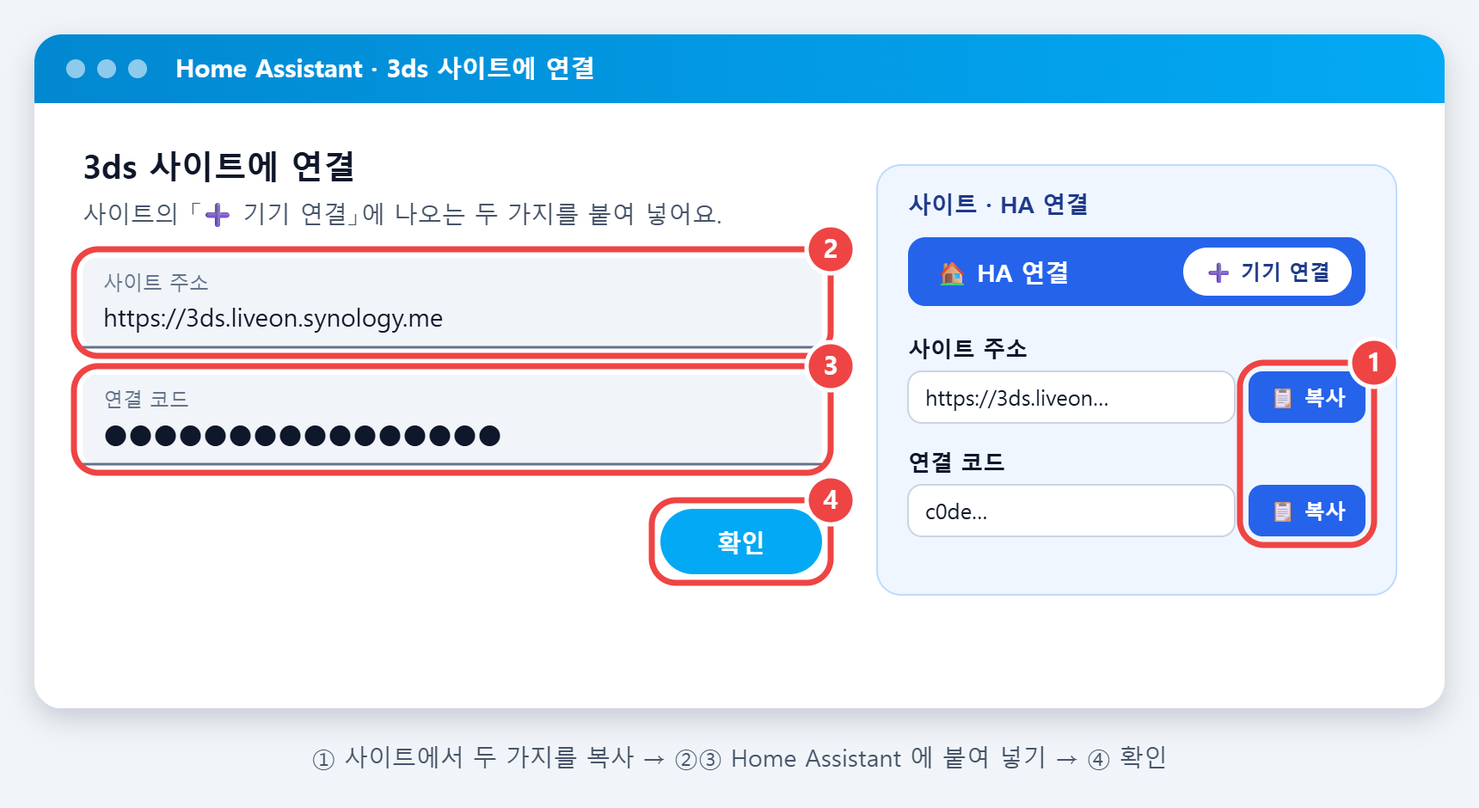
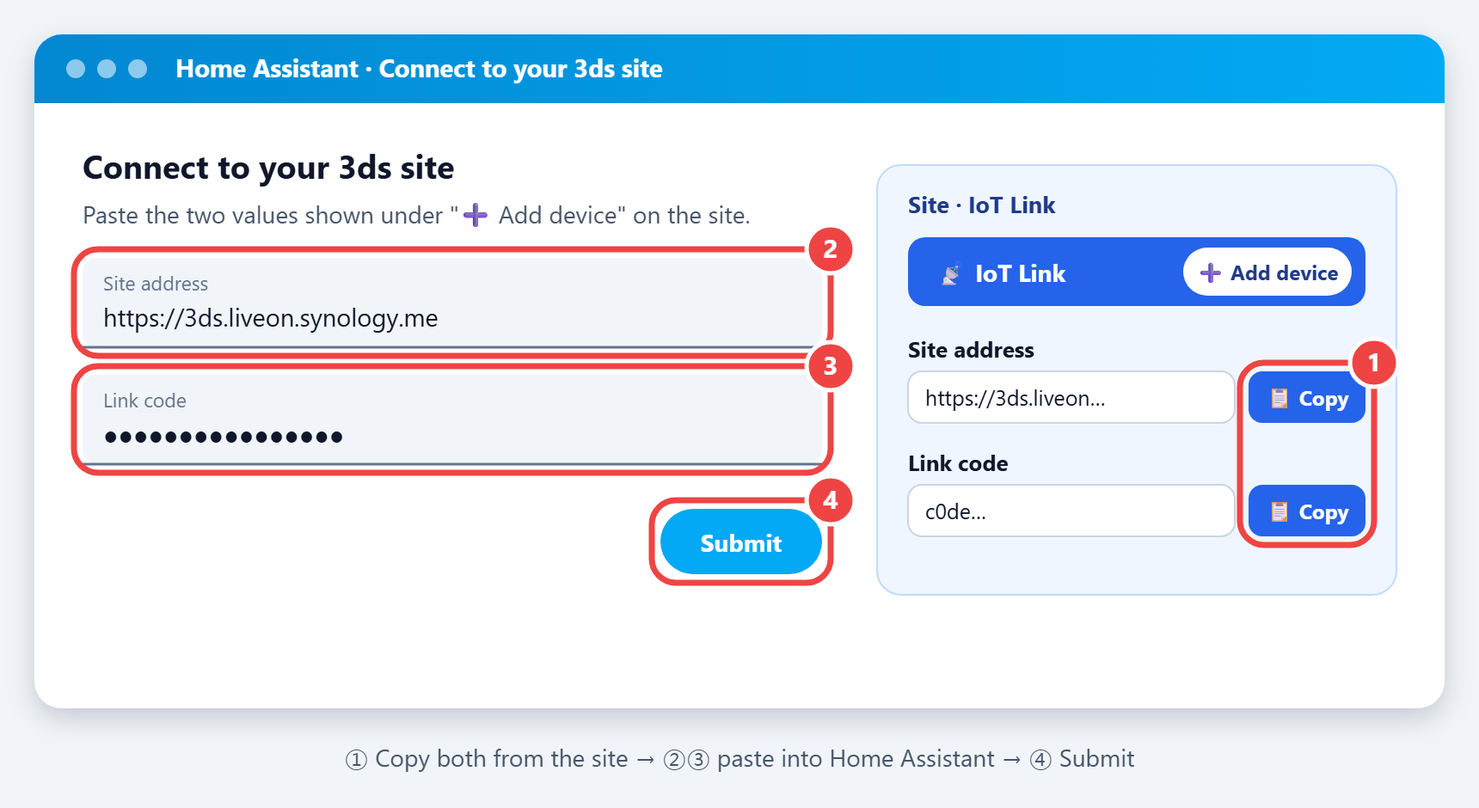
0.3.3 Documentation in English + requirements section (IoT Link plugin)

diff --git a/custom_components/g7_link/config_flow.py b/custom_components/g7_link/config_flow.py
@@ -255,7 +255,7 @@ def _scan(hass: HomeAssistant, hub: dict[str, Any]) -> dict[str, dict[str, Any]]
         loc = next((x for x in locations if _norm(x) in text or (len(_norm(name)) >= 2 and _norm(name) in _norm(x))), None)
         place = loc or name
         out[f"h:{ent}"] = {
-            "label": f"🧵 {loc}  ←  {friendly}" if loc else f"🧵 {friendly} (새 보관함: {name})",
+            "label": f"🧵 {loc}  ←  {friendly}" if loc else f"🧵 {friendly} (new storage box: {name})",
             "matched": loc is not None,
             "name": place,
             "body": {CONF_TARGET: "location", CONF_LOCATION: place, CONF_NAME: place, CONF_HUM: ent, CONF_TEMP: temp, CONF_HUMIDITY_MAX: 40},
@@ -432,8 +432,8 @@ class G7LinkConfigFlow(config_entries.ConfigFlow, domain=DOMAIN):
             {
                 vol.Required(CONF_TARGET, default=CONF_AUTO): selector.SelectSelector(
                     selector.SelectSelectorConfig(
-                        options=[selector.SelectOptionDict(value=CONF_AUTO, label="⚡ 알아서 찾아 연결 (추천) — 내 프린터 · 필라멘트 보관함과 이름이 맞는 것")]
-                        + [selector.SelectOptionDict(value=k, label=str(v) + " — 하나씩") for k, v in targets.items()],
+                        options=[selector.SelectOptionDict(value=CONF_AUTO, label="⚡ Find and connect automatically (recommended) — matches My Printer and filament storage by name")]
+                        + [selector.SelectOptionDict(value=k, label=str(v) + " — one at a time") for k, v in targets.items()],
                         mode=selector.SelectSelectorMode.LIST,
                     )
                 )
@@ -484,7 +484,7 @@ class G7LinkConfigFlow(config_entries.ConfigFlow, domain=DOMAIN):
                     "snap_max": self._hub.get("snap_max"),
                     "snapshot": bool(self._hub.get("snapshot", True)),
                 }
-                return self.async_create_entry(title=f"3ds 기기 {len(devices)}개", data=data, options={})
+                return self.async_create_entry(title=f"3ds — {len(devices)} devices", data=data, options={})
             errors.setdefault("base", "need_entity")
         schema = _items_schema({k: c["label"] for k, c in self._cands.items()}, [k for k, c in self._cands.items() if c["matched"]])
         return self.async_show_form(step_id="auto", data_schema=schema, errors=errors, description_placeholders=placeholders)
@@ -529,7 +529,7 @@ class G7LinkConfigFlow(config_entries.ConfigFlow, domain=DOMAIN):
                     "gap_sec": self._hub.get("gap_sec"),
                     "snapshot": False,
                 }
-                return self.async_create_entry(title=f"3ds 보관함 센서 {len(devices)}개", data=data, options={})
+                return self.async_create_entry(title=f"3ds — {len(devices)} storage sensors", data=data, options={})
             errors["base"] = last or "need_entity"
         return self.async_show_form(step_id="bulk", data_schema=_bulk_schema(), errors=errors, description_placeholders=placeholders)
 
@@ -678,7 +678,7 @@ class G7LinkOptionsFlow(config_entries.OptionsFlow):
                     if key not in picked:
                         await _delete(self.hass, site, code, int(gone.get(CONF_DEVICE_ID) or 0))
                 data[CONF_DEVICES] = keep
-                self.hass.config_entries.async_update_entry(entry, data=data, title=f"3ds 기기 {len(keep)}개")
+                self.hass.config_entries.async_update_entry(entry, data=data, title=f"3ds — {len(keep)} devices")
                 return self.async_create_entry(title="", data=dict(entry.options))
         options = {k: f"✔ {d.get(CONF_NAME) or k}" for k, d in current.items()}
         options.update({k: c["label"] for k, c in self._cands.items()})
@@ -754,7 +754,7 @@ class G7LinkOptionsFlow(config_entries.OptionsFlow):
                     if gone.get(CONF_HUM) not in picked:
                         await _delete(self.hass, site, code, int(gone.get(CONF_DEVICE_ID) or 0))
                 data[CONF_DEVICES] = keep
-                self.hass.config_entries.async_update_entry(entry, data=data, title=f"3ds 보관함 센서 {len(keep)}개")
+                self.hass.config_entries.async_update_entry(entry, data=data, title=f"3ds — {len(keep)} storage sensors")
                 return self.async_create_entry(title="", data=dict(entry.options))
         current = [d.get(CONF_HUM) for d in devices if d.get(CONF_HUM)]
         return self.async_show_form(step_id="bulk", data_schema=_bulk_schema(current), errors=errors, description_placeholders=placeholders)

diff --git a/custom_components/g7_link/__init__.py b/custom_components/g7_link/__init__.py
@@ -94,7 +94,7 @@ async def async_remove_entry(hass: HomeAssistant, entry: ConfigEntry) -> None:
             resp = await hub_request(async_get_clientsession(hass), "DELETE", data.get(CONF_SITE, ""), f"{data.get(CONF_CODE, '')}/devices/{device_id or 0}", timeout=_TIMEOUT)
             resp.release()
         except _NET_ERRORS as err:
-            _LOGGER.debug("3ds: 사이트의 기기를 지우지 못함: %s", err)
+            _LOGGER.debug("3ds: could not remove the device on the site: %s", err)
 
 
 def _int(value: Any, default: int) -> int:
@@ -278,7 +278,7 @@ class Pusher:
         try:
             resp = await async_get_clientsession(self.hass).post(self.push_url, json=payload, timeout=_TIMEOUT)
             if resp.status >= 400:
-                _LOGGER.debug("3ds %s: 사이트가 받지 않음 (%s)", self.title, resp.status)
+                _LOGGER.debug("3ds %s: the site did not accept the values (%s)", self.title, resp.status)
                 resp.release()
                 return
             try:
@@ -288,7 +288,7 @@ class Pusher:
             if isinstance(answer, dict):
                 self._apply_site(answer)
         except _NET_ERRORS as err:
-            _LOGGER.debug("3ds %s: 보내지 못함: %s", self.title, err)
+            _LOGGER.debug("3ds %s: could not send: %s", self.title, err)
 
     # ── 카메라 사진 (없어도 되는 것 — 무엇이 잘못돼도 값 보내기에는 영향 없음) ──
 
@@ -316,7 +316,7 @@ class Pusher:
                 self._last_snap = time.monotonic()
             resp.release()
         except Exception as err:  # noqa: BLE001 — 카메라 종류 · 버전마다 내는 오류가 달라 넓게 잡음
-            _LOGGER.debug("3ds %s: 사진을 보내지 못함: %s", self.title, err)
+            _LOGGER.debug("3ds %s: could not send the camera snapshot: %s", self.title, err)
 
     async def _camera_image(self, camera_entity: str) -> bytes | None:
         # 카메라 통합이 없는 집에서도 켜지게 여기서 불러옴

diff --git a/README.md b/README.md
@@ -1,123 +1,144 @@
 <img src="custom_components/g7_link/brand/icon.png" alt="3ds" width="96" align="right">
 
-# 3ds — Home Assistant 통합
+# 3ds — Home Assistant integration
 
-Home Assistant 의 온습도 센서 · 프린터/장비 상태 · 카메라 사진을 G7(그누보드7) 사이트의 **📡 IoT 연결** 플러그인(`custom-iot_link`, 예전 이름 HA 연결 `custom-ha_link` 도 됨)으로 보냅니다.
-설정 글(YAML)을 쓰지 않고, 화면에서 센서를 고르기만 하면 됩니다.
+Sends Home Assistant temperature / humidity sensors, printer / device state and camera snapshots to a **G7 (Gnuboard 7)** site running the **📡 IoT Link** plugin.
+No YAML — you just pick sensors in the UI.
 
-- 사이트가 내 Home Assistant 로 접속하지 않습니다. 여기서 사이트로 **보내기만** 합니다.
-- 사이트의 화면을 한동안 안 보면 사이트가 알려 주는 느린 주기로 스스로 늦춥니다 (상태 변화는 그대로 바로 보냄). 다시 화면을 열면 다음 번 보낼 때부터 평소 주기로 돌아옵니다.
-- 보내는 방식은 **사이트 관리자가 정합니다**: 「값이 변하면」(습도 · 온도가 정한 만큼 변했을 때, 1분에 한 번까지 + 변화가 없어도 가끔 한 번) 또는 「주기적으로」. 어느 쪽이든 상태가 바뀌면 조금 뒤 바로 한 번. 통합의 **구성**에서 주기를 더 길게 바꿀 수 있습니다 (사이트 기본보다 짧게는 안 됨). 카메라를 고르면 가동 중일 때만 작은 사진(가로 640) 한 장.
+## ⚠ Requirements — read this first
 
-## 그림으로 보는 설치 · 연결
+This integration **only works together with a G7 site that has the IoT Link plugin installed**. It has no use on its own: every request goes to that site.
 
-처음이면 5분이면 됩니다. 빨간 테두리와 번호를 순서대로 따라 하세요.
-(그림은 화면을 본떠 그린 것입니다. Home Assistant 화면은 버전에 따라 조금 다를 수 있습니다.)
+| You need | Where |
+| --- | --- |
+| A [G7 (Gnuboard 7)](https://github.com/gnuboard/g7) site, version 7.0.5+ | your own site (or a site that offers IoT Link to its members) |
+| The **IoT Link** plugin (`custom-iot_link`, formerly `custom-ha_link`) installed and activated on that site | **[keidischoi/g7-plugin-custom-iot_link](https://github.com/keidischoi/g7-plugin-custom-iot_link)** — MIT, public |
+| A member account on that site | the **site address** and **link code** are shown on the site's `/iot-link` page |
 
-### 1. HACS 에 저장소 넣기
+**Installing the plugin on your G7 site** (full guide in the [plugin README](https://github.com/keidischoi/g7-plugin-custom-iot_link#install)):
 
-HACS 를 열고 오른쪽 위 **⋮** → **사용자 지정 저장소** → 아래 주소를 붙여 넣고 종류는 **통합** → **추가**.
+1. Download `custom-iot_link-<version>.zip` from the [plugin's latest release](https://github.com/keidischoi/g7-plugin-custom-iot_link/releases/latest).
+2. Unzip it into the site's `plugins/_pending/` folder (→ `plugins/_pending/custom-iot_link/plugin.php`).
+3. Run as the web server user: `php artisan plugin:install custom-iot_link`, `php artisan plugin:activate custom-iot_link`, then `php artisan hooks:clear` and `php artisan cache:clear`.
+4. Log in to the site and open `/iot-link` → **➕ Add device** to get the **site address** and **link code** used below.
+
+If you are a member of a site that already runs IoT Link, you can skip this — just get the address and code from the site.
+
+## How it works
+
+- The site never connects into your Home Assistant. This integration only **pushes** values to the site.
+- When nobody has looked at the site's page for a while, the site tells the integration to slow down and it does so on its own (state changes are still sent right away). Once the page is opened again, the normal interval returns from the next send.
+- **The site admin decides how values are sent**: "on change" (when humidity / temperature changes by a set amount — at most once a minute, plus an occasional send even without change) or "periodically". Either way, a state change triggers one send shortly after. You can make the interval longer (not shorter than the site default) in the integration's **Configure**. If you pick a camera, one small snapshot (640 px wide) is sent only while the device is running.
+
+## Install and connect, step by step
+
+About five minutes the first time. Follow the red boxes and numbers in order.
+(The pictures are drawn mock-ups of the screens; Home Assistant may look slightly different depending on the version.)
+
+### 1. Add the repository to HACS
+
+Open HACS → **⋮** (top right) → **Custom repositories** → paste the address below, type **Integration** → **Add**.
 
 ```
 https://github.com/keidischoi/ha-3ds-link
 ```
 
-<p align="center"><img src="https://raw.githubusercontent.com/keidischoi/ha-3ds-link/main/docs/1-hacs-repo.png" alt="HACS 에 사용자 지정 저장소 넣기" width="760"></p>
+<p align="center"><img src="https://raw.githubusercontent.com/keidischoi/ha-3ds-link/main/docs/1-hacs-repo.png" alt="Add a custom repository in HACS" width="760"></p>
 
-> 사이트의 「IoT 연결 › ➕ 기기 연결」에 있는 **🧩 내 Home Assistant 의 HACS 에서 열기** 단추를 누르면 이 단계를 건너뛰고 바로 다음 화면이 열립니다.
+> The **🧩 Open in my Home Assistant's HACS** button under the site's IoT Link › ➕ Add device skips this step and opens the next screen directly.
 
-### 2. 내려받고 다시 시작
+### 2. Download and restart
 
-**3ds** 를 열어 **다운로드** → Home Assistant 를 **다시 시작** (설정 › 시스템 › 다시 시작).
+Open **3ds** → **Download** → **restart** Home Assistant (Settings › System › Restart).
 
-<p align="center"><img src="https://raw.githubusercontent.com/keidischoi/ha-3ds-link/main/docs/2-download.png" alt="3ds 내려받기" width="760"></p>
+<p align="center"><img src="https://raw.githubusercontent.com/keidischoi/ha-3ds-link/main/docs/2-download.png" alt="Download 3ds" width="760"></p>
 
-### 3. 통합 추가
+### 3. Add the integration
 
-설정 › 기기 및 서비스 → 오른쪽 아래 **통합 추가** → **3ds** 를 찾아 누릅니다.
+Settings › Devices & services → **Add integration** (bottom right) → search for **3ds**.
 
-<p align="center"><img src="https://raw.githubusercontent.com/keidischoi/ha-3ds-link/main/docs/3-add.png" alt="통합 추가에서 3ds 찾기" width="760"></p>
+<p align="center"><img src="https://raw.githubusercontent.com/keidischoi/ha-3ds-link/main/docs/3-add.png" alt="Find 3ds in Add integration" width="760"></p>
 
-### 4. 사이트 주소 · 연결 코드 붙여 넣기
+### 4. Paste the site address and link code
 
-사이트의 「IoT 연결 › ➕ 기기 연결」에서 **사이트 주소** 와 **연결 코드** 를 복사해 붙여 넣고 **확인**.
-연결 코드는 비밀번호와 같습니다 — 남에게 보이지 마세요.
+Copy the **site address** and **link code** from the site's IoT Link › ➕ Add device, paste them and press **Submit**.
+The link code works like a password — keep it private.
 
-<p align="center"><img src="https://raw.githubusercontent.com/keidischoi/ha-3ds-link/main/docs/4-code.png" alt="사이트 주소와 연결 코드 붙여 넣기" width="760"></p>
+<p align="center"><img src="https://raw.githubusercontent.com/keidischoi/ha-3ds-link/main/docs/4-code.png" alt="Paste the site address and link code" width="760"></p>
 
-### 5. ⚡ 알아서 찾아 연결
+### 5. ⚡ Find and connect automatically
 
-맨 위 **⚡ 알아서 찾아 연결** 을 고르면, 사이트의 **내 프린터** · 필라멘트 **보관 위치** 와 이름이 맞는 Home Assistant 기기 · 습도 센서가 **체크되어** 나옵니다. 맞으면 **확인** 만 누르면 끝입니다.
+Choose **⚡ Find and connect automatically** at the top: Home Assistant devices and humidity sensors whose names match your **My Printer** entries and filament **storage locations** on the site come up **already checked**. If they look right, just press **Submit**.
 
-- 🖨 프린터: 별명 · 기종 이름이 HA 기기 이름에 들어 있으면 찾습니다 — 상태 · 진행률 · 남은 시간 · 카메라가 한 번에 붙습니다.
-- 🧵 보관함: 습도 센서(와 그 기기 · 구역 이름)에 필라멘트의 보관 위치 이름이 들어 있으면 그 위치로 붙습니다. 같은 기기의 **온도 센서는 알아서 같이** 붙습니다.
-- 이름이 안 맞은 습도 센서도 목록에 있습니다 — 체크하면 새 보관함으로 만들어집니다.
-- 1~2분 뒤 사이트의 IoT 연결 화면에 🟢 로 나타납니다. 나중에 이 통합의 **구성** 에서 다시 찾거나, 체크를 빼서 지울 수 있습니다.
+- 🖨 Printers: found when the nickname or model name is part of the HA device name — state, progress, remaining time and camera are attached in one go.
+- 🧵 Storage boxes: a humidity sensor (or its device / area name) containing a filament storage location's name is attached to that location. The **temperature sensor of the same device is attached automatically**.
+- Humidity sensors whose names don't match are listed too — checking one creates a new storage box.
+- After 1–2 minutes they show up as 🟢 on the site's IoT Link page. Later you can search again or uncheck to remove them in this integration's **Configure**.
 
-(아래 그림은 예전 「한꺼번에」 화면입니다 — 지금은 같은 자리에 프린터도 같이 나옵니다.)
+(The picture below shows the older "all at once" screen — printers now appear in the same place.)
 
-<p align="center"><img src="https://raw.githubusercontent.com/keidischoi/ha-3ds-link/main/docs/5-bulk.png" alt="한꺼번에 — 습도 센서 체크" width="760"></p>
+<p align="center"><img src="https://raw.githubusercontent.com/keidischoi/ha-3ds-link/main/docs/5-bulk.png" alt="All at once — check humidity sensors" width="760"></p>
 
-### 6. 못 찾은 프린터 · 장비 붙이기 (하나씩)
+### 6. Attach printers / equipment that weren't found (one by one)
 
-통합을 **한 번 더 추가** 하고(주소 · 코드는 채워져 있습니다) **내 프린터 — 하나씩** 또는 **업체 장비 — 하나씩** 을 고릅니다.
-Home Assistant 의 **기기를 하나 고르면** 상태 · 진행률 · 남은 시간 · 내부 온도 · 카메라 센서를 찾아 채워 줍니다. 확인하고 **확인**.
+**Add the integration once more** (address and code are pre-filled) and choose **My Printer — one at a time** or **Company equipment — one at a time**.
+**Pick a Home Assistant device** and the state, progress, remaining time, chamber temperature and camera sensors are filled in for you. Check them and press **Submit**.
 
-<p align="center"><img src="https://raw.githubusercontent.com/keidischoi/ha-3ds-link/main/docs/6-printer.png" alt="프린터 · 장비 — 기기를 고르면 센서가 채워짐" width="760"></p>
+<p align="center"><img src="https://raw.githubusercontent.com/keidischoi/ha-3ds-link/main/docs/6-printer.png" alt="Printer / equipment — pick a device and the sensors are filled in" width="760"></p>
 
-### 7. 사이트에서 마무리
+### 7. Finish on the site
 
-- **필라멘트에 붙이기**: 정비 수첩에서 필라멘트의 **보관 위치** 를 목록에서 고르면, 그 보관함의 습도 · 온도가 필라멘트에 같이 보입니다.
-- **알림 기준 · 이름 · 붙일 곳**: 사이트의 IoT 연결 화면에서 기기 카드의 ✏.
-- **카메라 사진 공개 여부**: 같은 ✏ 에서 정합니다 (기본은 나만 봄).
+- **Attach to filament**: in the maintenance log, pick the filament's **storage location** from the list, and that box's humidity / temperature appear on the filament.
+- **Alert thresholds · name · where to attach**: ✏ on the device card on the site's IoT Link page.
+- **Camera snapshot visibility**: same ✏ (default: only you).
 
-## 설치 요약 (HACS)
+## Quick summary (HACS)
 
-1. HACS › 오른쪽 위 ⋮ › **사용자 지정 저장소** › `https://github.com/keidischoi/ha-3ds-link` · 종류 **통합** › 추가
-2. **3ds** 를 내려받고 Home Assistant 를 다시 시작
-3. 설정 › 기기 및 서비스 › **통합 추가** › "3ds"
-4. 사이트의 「IoT 연결」 › 「➕ 기기 연결」에 나오는 **사이트 주소** 와 **연결 코드** 를 붙여 넣기
-5. 붙일 곳(필라멘트 보관함 · 내 프린터 · 업체 장비 · 그 밖)과 센서를 고르면 끝
+1. HACS › ⋮ (top right) › **Custom repositories** › `https://github.com/keidischoi/ha-3ds-link` · type **Integration** › Add
+2. Download **3ds** and restart Home Assistant
+3. Settings › Devices & services › **Add integration** › "3ds"
+4. Paste the **site address** and **link code** shown under the site's IoT Link › ➕ Add device
+5. Choose where to attach (filament storage · My Printer · company equipment · other) and the sensors — done
 
-**온습도 센서가 여러 개면 한꺼번에**: 5번에서 맨 위 「✨ 온습도 센서 여러 개를 한꺼번에」를 고르고 습도 센서들을 체크하면, 센서마다 사이트에 보관함이 만들어집니다 (같은 기기의 온도 센서는 알아서 같이). 나중에 그 통합의 **구성**에서 센서를 더 고르거나 뺄 수 있습니다.
+**Many thermo-hygrometers at once**: in step 5 choose "✨ Many temperature/humidity sensors at once" and check the humidity sensors — a storage box is created on the site for each sensor (the same device's temperature sensor is attached automatically). You can add or remove sensors later in the integration's **Configure**.
 
-프린터 · 장비를 더 붙이려면 3번부터 다시 하면 됩니다 (주소 · 코드는 채워져 있습니다).
-센서 · 알림 기준을 바꾸려면 통합의 **구성**을 누르세요. 통합을 지우면 사이트의 기기도 같이 지워집니다.
+To attach more printers / equipment, start again from step 3 (address and code are pre-filled).
+To change sensors or alert thresholds, press **Configure** on the integration. Deleting the integration also deletes its devices on the site.
 
-## 프린터 통합
+## Printer integrations
 
-어느 프린터 통합이든 됩니다 — 이 통합은 그 통합이 만든 **센서를 읽어 보내기만** 합니다.
-프린터 · 장비를 붙일 때 Home Assistant 의 **기기를 하나 고르면** 상태 · 진행률 · 남은 시간 · 작업 이름 · 내부 온도 · 카메라를 이름으로 찾아 채워 줍니다 (다음 화면에서 확인 · 고치기).
+Any printer integration works — this integration only **reads the sensors that integration creates and sends them**.
+When attaching a printer / device, **pick one Home Assistant device** and state, progress, remaining time, job name, chamber temperature and camera are found by name (you can check and fix them on the next screen).
 
-| 통합 | 상태 센서 (예) | 비고 |
+| Integration | State sensor (example) | Notes |
 |---|---|---|
-| Bambu Lab (ha-bambulab) | `…_print_status` | 진행률 · 남은 시간 · 작업 이름 · 카메라 |
-| Creality WebSocket (ha_creality_ws) | `…_print_status` | 상태: idle · processing · printing · paused · stopped · completed · error · self-testing |
-| Anycubic (Local · Cloud) | 상태 · 작업 센서 | 센서 이름은 통합 · 기종마다 다름 — 자동으로 못 찾으면 직접 고르기 |
-| Moonraker (Klipper) | `…_current_print_state` | 진행률 · 파일 이름 |
-| OctoPrint | `…_current_state` | 진행률 |
+| Bambu Lab (ha-bambulab) | `…_print_status` | progress · remaining time · job name · camera |
+| Creality WebSocket (ha_creality_ws) | `…_print_status` | states: idle · processing · printing · paused · stopped · completed · error · self-testing |
+| Anycubic (Local · Cloud) | state / job sensors | sensor names differ by integration and model — pick them yourself if not found |
+| Moonraker (Klipper) | `…_current_print_state` | progress · file name |
+| OctoPrint | `…_current_state` | progress |
 
-자동으로 못 찾은 칸은 목록에서 직접 고르면 됩니다. 사이트가 모르는 상태 글은 「쉬는 중」으로 봅니다 — 그런 글이 있으면 알려 주세요.
+Fields that aren't found automatically can be picked from the list. State text the site doesn't know is treated as "idle" — please report such text.
 
-## 보내는 값
+## Values sent
 
-| 고른 것 | 보내는 이름 |
+| What you pick | Sent as |
 |---|---|
-| 습도 센서 | `humidity` |
-| 온도 센서 | `temperature` |
-| 상태 (프린터 상태 · 스위치 · 플러그) | `state` — 사이트가 가동 시간을 셈 |
-| 진행률 · 남은 시간(분) · 작업 이름 (프린터) | `progress` · `remaining_min` · `job` — 사이트의 「내 프린터」로도 넘어감 |
-| 카메라 | JPEG 한 장 (사이트에는 기기마다 최신 한 장만) |
+| Humidity sensor | `humidity` |
+| Temperature sensor | `temperature` |
+| State (printer state · switch · plug) | `state` — the site counts running time |
+| Progress · remaining time (min) · job name (printer) | `progress` · `remaining_min` · `job` — also passed to the site's "My Printer" |
+| Camera | one JPEG (the site keeps only the latest one per device) |
 
-`unknown` · `unavailable` 인 값은 보내지 않습니다.
+`unknown` / `unavailable` values are not sent.
 
-## Home Assistant 버전
+## Home Assistant version
 
-Home Assistant 2024.4 이상. 버전이 올라가도 덜 흔들리게 오래 유지돼 온 기본 기능(상태 읽기 · 타이머 · 상태 변화 듣기 · 설정 화면)만 씁니다.
-카메라 사진처럼 버전 · 카메라 종류에 따라 달라질 수 있는 것은 따로 감싸 두어, 그 부분이 안 돼도 값 보내기는 계속 됩니다.
+Home Assistant 2024.4 or later. Only long-standing core features are used (reading states, timers, listening to state changes, config flow) so that new versions are less likely to break it.
+Things that can vary by version or camera type, such as camera snapshots, are wrapped separately — if that part fails, values keep being sent.
 
-## 문제가 있을 때
+## Troubleshooting
 
-- 습도 · 온도 칸의 목록에 내 센서가 안 보이면: 그 센서에 종류(device class)가 안 달려 있는 것입니다. 설정 › 기기 및 서비스 › 구성요소에서 그 센서의 「표시 유형」을 습도/온도로 바꾸면 목록에 나옵니다.
-- 사이트에 🟢 로 안 바뀌면: 설정 › 시스템 › 로그에서 `g7_link` 를 찾아보세요 (자세히 보려면 로거 수준을 debug 로).
-- "연결 코드가 맞지 않아요": 사이트에서 코드를 새로 만들었으면, 통합을 지우고 새 코드로 다시 추가해야 고칠 수 있습니다 (이미 붙인 기기의 값 보내기는 계속 됩니다).
+- Your sensor isn't in the humidity / temperature list: the sensor has no device class. In Settings › Devices & services › Entities, change the sensor's "Show as" to humidity / temperature and it appears in the list.
+- The site doesn't turn 🟢: look for `g7_link` in Settings › System › Logs (set the logger level to debug for details).
+- "The link code doesn't match": if you generated a new code on the site, delete the integration and add it again with the new code (devices already attached keep sending).
